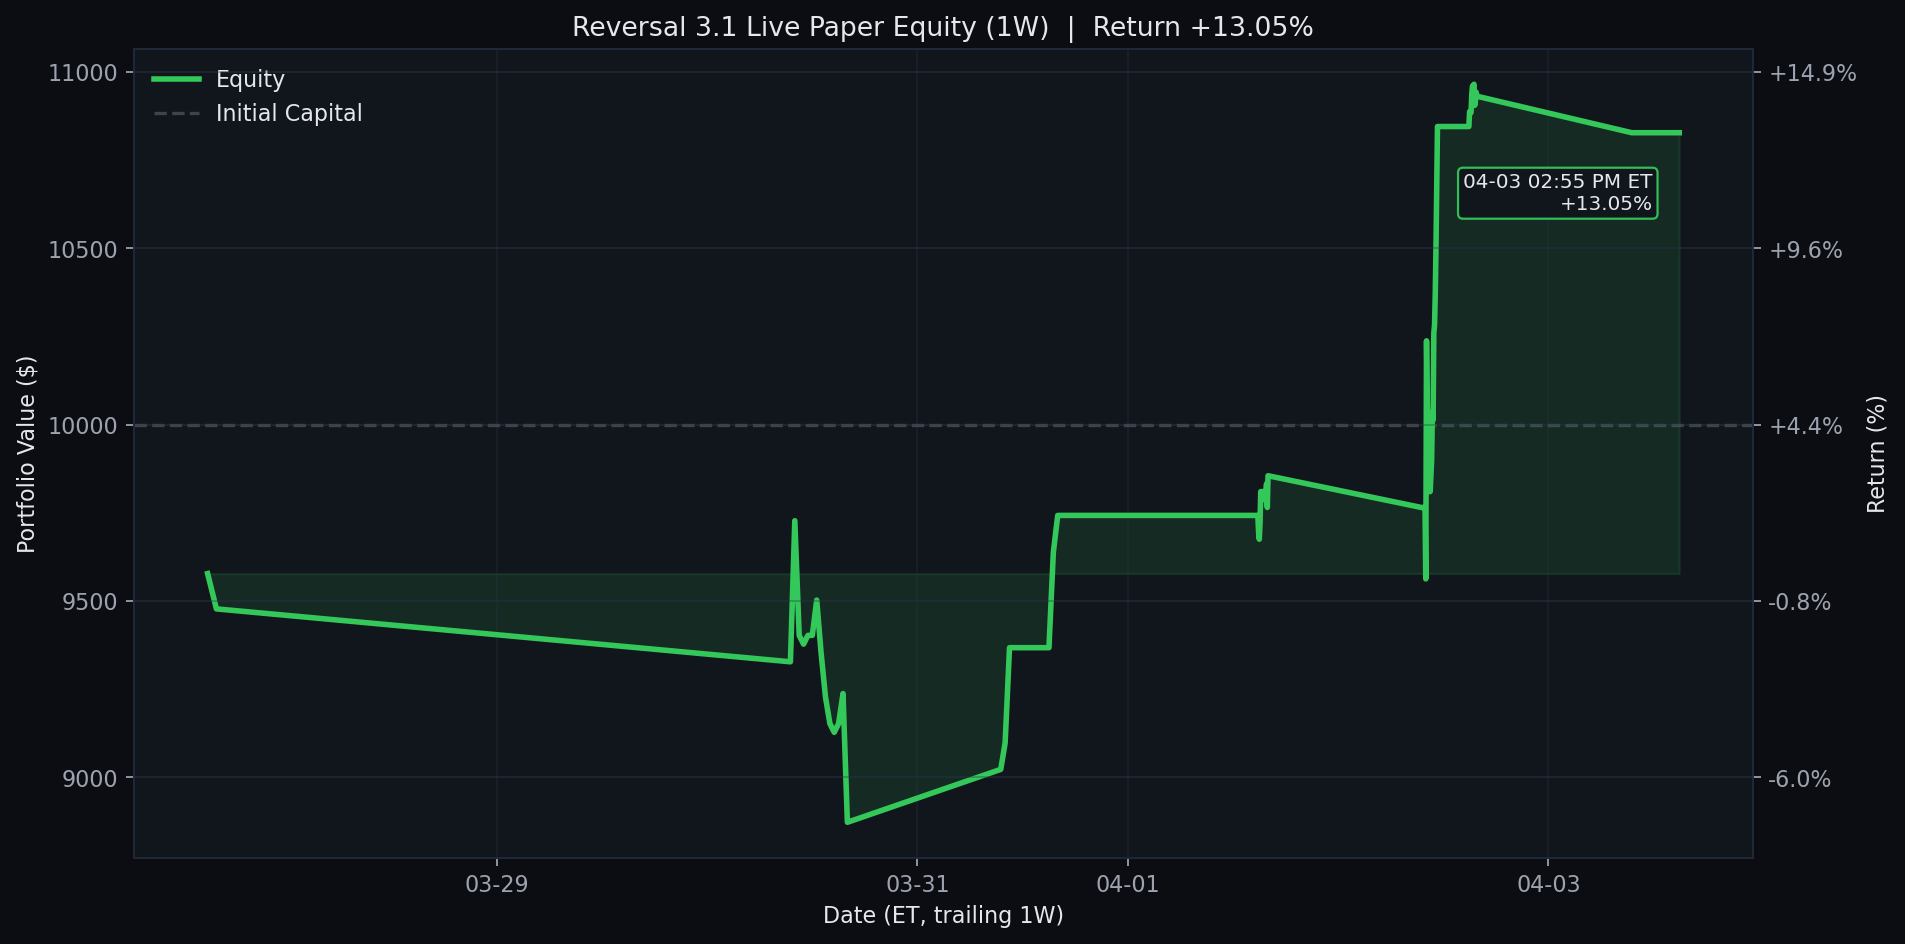
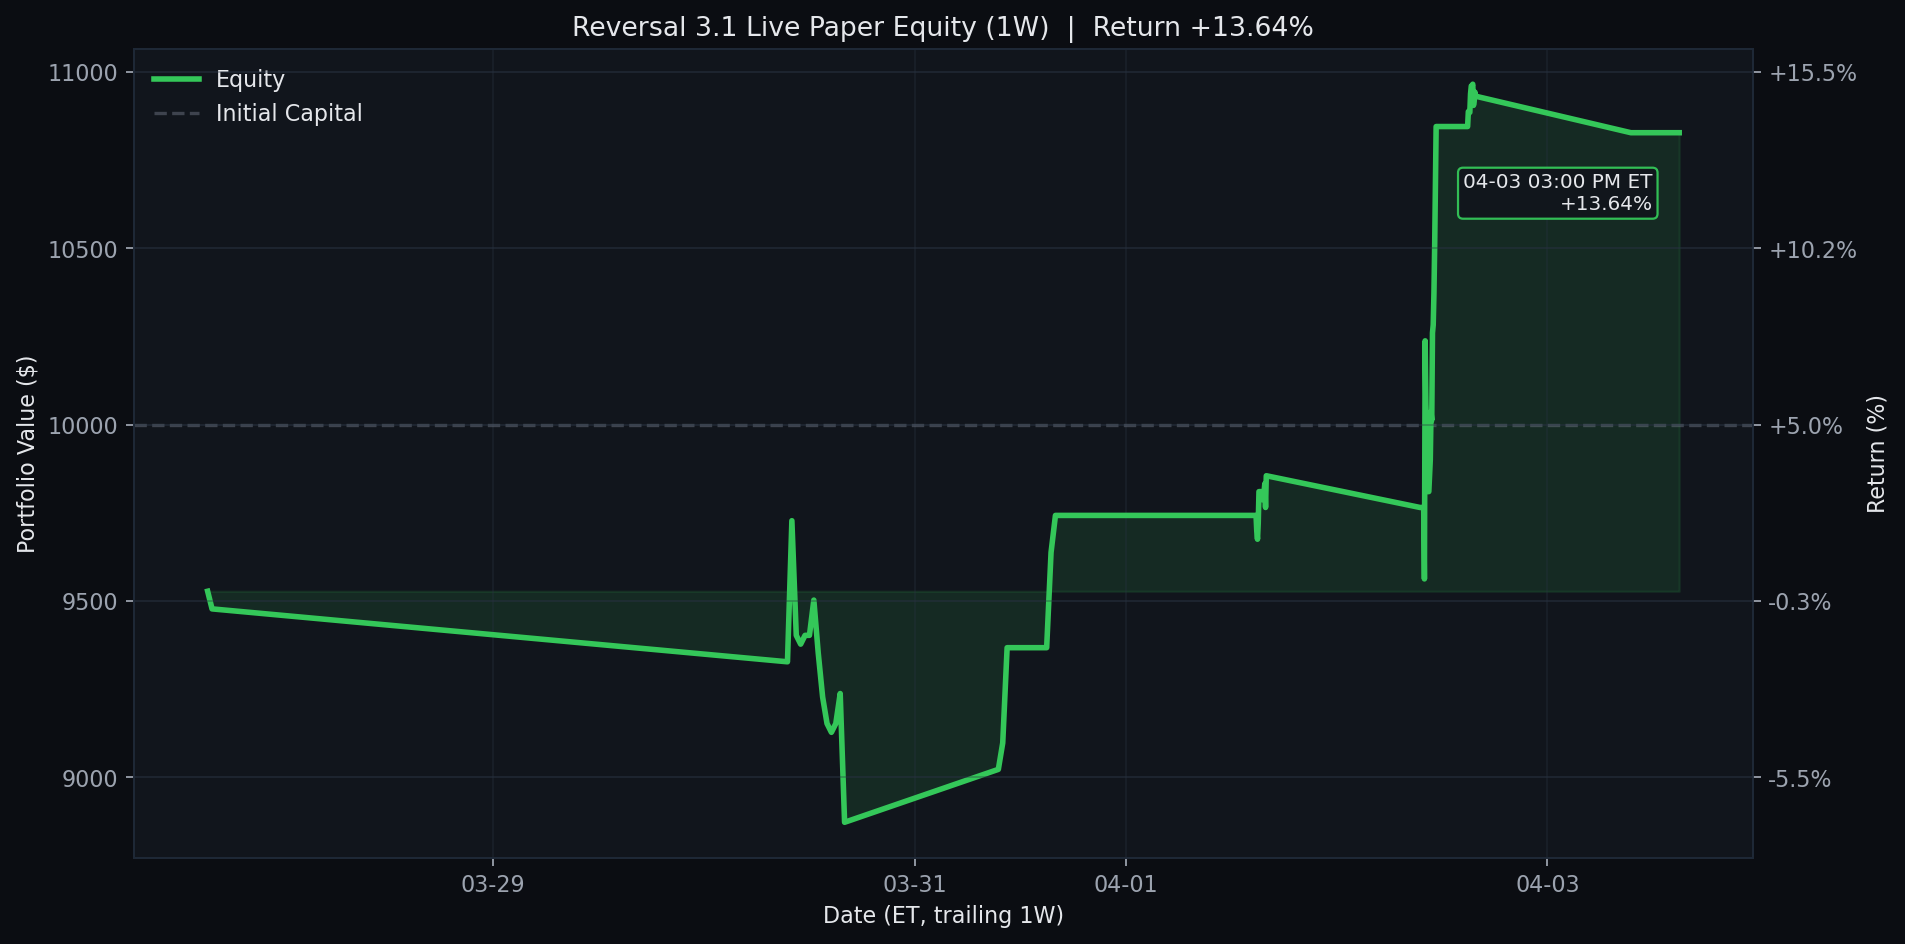
Update Reversal 3.1 live paper test 2026-04-03 15:00 ET

diff --git a/results/reversal_3_1_live/README.md b/results/reversal_3_1_live/README.md
@@ -1,6 +1,6 @@
 # Reversal 3.1 Live Paper Test
 
-Last updated (ET): `2026-04-03 14:55:05 EDT`
+Last updated (ET): `2026-04-03 15:00:05 EDT`
 Last processed slot: `entry_1500`
 
 ## Active Configuration
@@ -59,6 +59,7 @@ ticker  success_rate_%  matched_signals  current_drop_%  target_rebound_$  targe
 
 ```text
                     timestamp_et        slot   event_type                                                                                                                                                                           detail
+2026-04-03T15:00:05.960286-04:00  entry_1500 slot_skipped                                                                                                                                                  {"reason": "already_processed"}
 2026-04-03T14:55:05.881986-04:00  entry_1500 slot_skipped                                                                                                                                                  {"reason": "already_processed"}
 2026-04-03T14:50:06.418885-04:00  entry_1500        entry {"allocated_cash": 5210.0, "contract_symbol": "REGN260515C00760000", "contracts": 1, "entry_option_price": 52.1, "matched_signals": 15, "success_rate": 93.33, "ticker": "REGN"}
 2026-04-03T14:40:05.887311-04:00 manage_1430 slot_skipped                                                                                                                                                  {"reason": "already_processed"}
@@ -68,7 +69,6 @@ ticker  success_rate_%  matched_signals  current_drop_%  target_rebound_$  targe
 2026-04-03T14:10:05.890389-04:00 manage_1400 slot_skipped                                                                                                                                                  {"reason": "already_processed"}
 2026-04-03T14:05:03.896646-04:00 manage_1400 slot_skipped                                                                                                                                                  {"reason": "already_processed"}
 2026-04-03T14:00:03.898829-04:00 manage_1400 slot_skipped                                                                                                                                                  {"reason": "already_processed"}
-2026-04-03T13:55:05.882580-04:00 manage_1400 slot_skipped                                                                                                                                                  {"reason": "already_processed"}
 ```
 
 ## Equity Curves

diff --git a/README.md b/README.md
@@ -3,7 +3,7 @@
 <!-- reversal-3.1-live:start -->
 ## Reversal 3.1 Live Paper Test
 
-- Last updated (ET): `2026-04-03 14:55:05 EDT`
+- Last updated (ET): `2026-04-03 15:00:05 EDT`
 - Equity: `$10,827.50` | Realized: `$845.00` | Unrealized: `$-17.50` | Open positions: `2`
 - Today closed trades: `0`
 - Current slot: `entry_1500`
